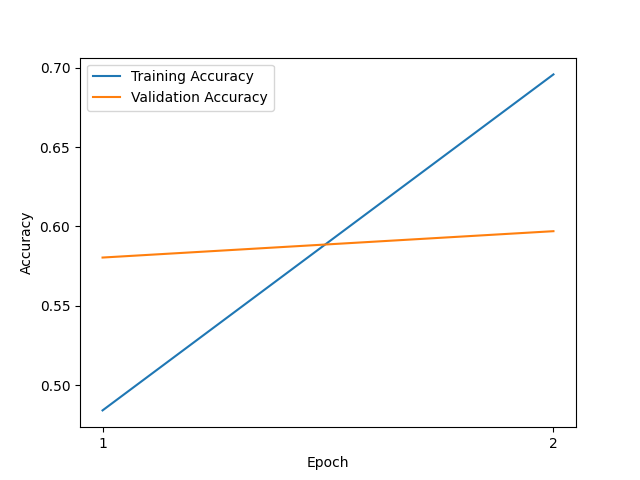
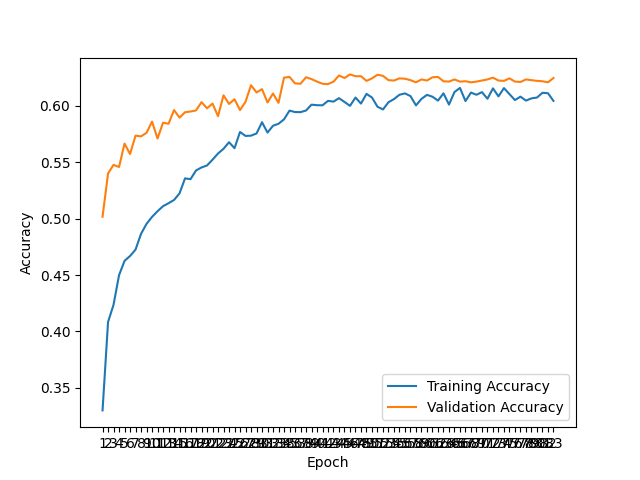
Added early stopping, learning rate scheduler and image augmentation

diff --git a/website/src/components/StepsLogic/StepsLogic.js b/website/src/components/StepsLogic/StepsLogic.js
@@ -21,7 +21,7 @@ const steps = [
 	{
 		icon: <TbUserScan size={iconSize} />,
 		title: 'View Results',
-		text: 'The estimated age will be displayed along with the confidence level of the model.',
+		text: 'The classified age will be displayed.',
 	},
 ];
 

diff --git a/main.py b/main.py
@@ -1,4 +1,3 @@
-# main.py
 from load_data import load_data_parallel
 from preprocessing import create_age_classes, undersample_age, split_data
 from plots import plot_age_distribution, plot_images_grid, plot_model_accuracy, plot_confusion_matrix, print_misclassifications
@@ -6,6 +5,8 @@ from model import build_model
 from train import train_model
 import numpy as np
 from tensorflow.keras.models import save_model
+from tensorflow.keras.callbacks import EarlyStopping, ReduceLROnPlateau
+from tensorflow.keras.preprocessing.image import ImageDataGenerator
 
 
 def main():
@@ -43,8 +44,26 @@ def main():
     # Build and compile the model
     model = build_model(input_shape=(200, 200, 3), num_classes=7, learning_rate=0.0001)
 
-    # Train the model
-    trained_model, history = train_model(model, x_train, y_train, x_test, y_test, epochs=20, batch_size=32)
+    # Define callbacks
+    early_stopping = EarlyStopping(monitor='val_loss', patience=10)
+    lr_schedule = ReduceLROnPlateau(monitor='val_loss', factor=0.2, patience=5)
+
+    # Create an ImageDataGenerator object
+    datagen = ImageDataGenerator(
+        rotation_range=20,  # randomly rotate images in the range (degrees, 0 to 180)
+        width_shift_range=0.2,  # randomly shift images horizontally (fraction of total width)
+        height_shift_range=0.2,  # randomly shift images vertically (fraction of total height)
+        horizontal_flip=True,  # randomly flip images
+        zoom_range=0.2,  # Randomly zoom image
+    )
+
+    # Compute quantities required for featurewise normalization
+    datagen.fit(x_train)
+
+    # Train the model with callbacks and data augmentation
+    trained_model, history = train_model(model, datagen.flow(x_train, y_train, batch_size=32), None, x_test, y_test,
+                                         epochs=100, batch_size=32,
+                                         callbacks=[early_stopping, lr_schedule])
     print(f"Training complete. {len(history.history['accuracy'])} epoch trained.")
 
     # Evaluate the model
@@ -65,7 +84,7 @@ def main():
 
     # Print misclassifications
     print_misclassifications(y_test, y_pred_classes, class_labels)
-    # save_model(model, 'models/resnet50_model.h5')
+    save_model(model, 'models/resnet50_model.h5')
 
 
 if __name__ == "__main__":

diff --git a/train.py b/train.py
@@ -1,5 +1,4 @@
-# train.py
-def train_model(model, x_train, y_train, x_test, y_test, epochs, batch_size=32):
+def train_model(model, x_train, y_train, x_test, y_test, epochs, batch_size=32, callbacks=None):
     """
     Train the given model on the provided training data and evaluate it on the testing data.
 
@@ -11,10 +10,11 @@ def train_model(model, x_train, y_train, x_test, y_test, epochs, batch_size=32):
         y_test (np.ndarray): The target labels of the testing set.
         epochs (int): The number of training epochs.
         batch_size (int, optional): The size of each batch during training.
+        callbacks (list, optional): List of keras callbacks to be applied during training.
 
     Returns:
         tf.keras.models.Model, tf.keras.callbacks.History: The trained model and its training history.
     """
     # Train the model and record the training history
-    history = model.fit(x_train, y_train, epochs=epochs, batch_size=batch_size, validation_data=(x_test, y_test))
+    history = model.fit(x_train, y_train, epochs=epochs, batch_size=batch_size, validation_data=(x_test, y_test), callbacks=callbacks)
     return model, history

diff --git a/model.py b/model.py
@@ -1,6 +1,6 @@
 from tensorflow.keras.applications import ResNet50
 from tensorflow.keras.models import Sequential
-from tensorflow.keras.layers import Dense, Flatten, BatchNormalization, Dropout
+from tensorflow.keras.layers import Dense, Flatten, BatchNormalization, Dropout, Conv2D, MaxPooling2D
 from tensorflow.keras.optimizers import Adam
 
 dropout_rate = 0.5
@@ -27,21 +27,14 @@ def build_model(input_shape, num_classes, learning_rate):
     # Build the model
     model = Sequential([
         base_model,
+        Conv2D(64, (3, 3), activation='relu'),
+        MaxPooling2D(pool_size=(2, 2)),
         Flatten(),
-
-        # Add Batch Normalization for stability
         BatchNormalization(),
-
-        # Add Dropout for regularization
         Dropout(dropout_rate),
-
         Dense(256, activation='relu'),
-
         BatchNormalization(),
-
         Dropout(dropout_rate),
-
-        # Output layer with softmax activation for multi-class classification
         Dense(num_classes, activation='softmax')
     ])
 

diff --git a/app.py b/app.py
@@ -9,7 +9,7 @@ from PIL import Image
 
 # Creating a Flask app and enabling CORS
 app = Flask(__name__)
-CORS(app, origins=['http://localhost:3000', 'http://192.168.1.212:3000', 'https://facial-age-classification.netlify.app'])
+CORS(app, origins=['http://localhost:3000', 'http://192.168.1.212:3000'])
 
 # Loading the model
 model = load_model('models/resnet50_model.h5')

diff --git a/preprocessing.py b/preprocessing.py
@@ -1,4 +1,3 @@
-# preprocessing.py
 import numpy as np
 from sklearn.model_selection import train_test_split
 import pandas as pd

diff --git a/plots.py b/plots.py
@@ -1,4 +1,3 @@
-# plots.py
 import numpy as np
 import seaborn as sns
 import matplotlib.pyplot as plt
